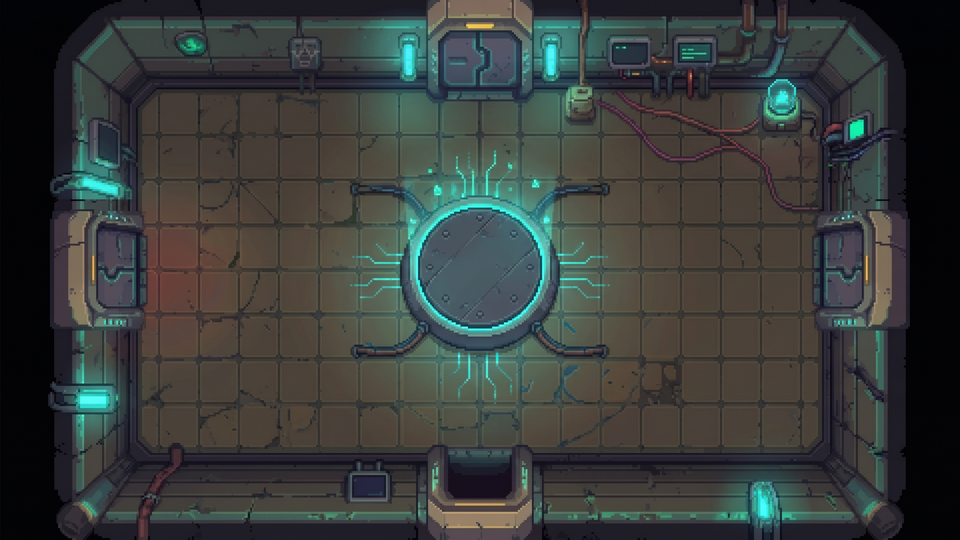
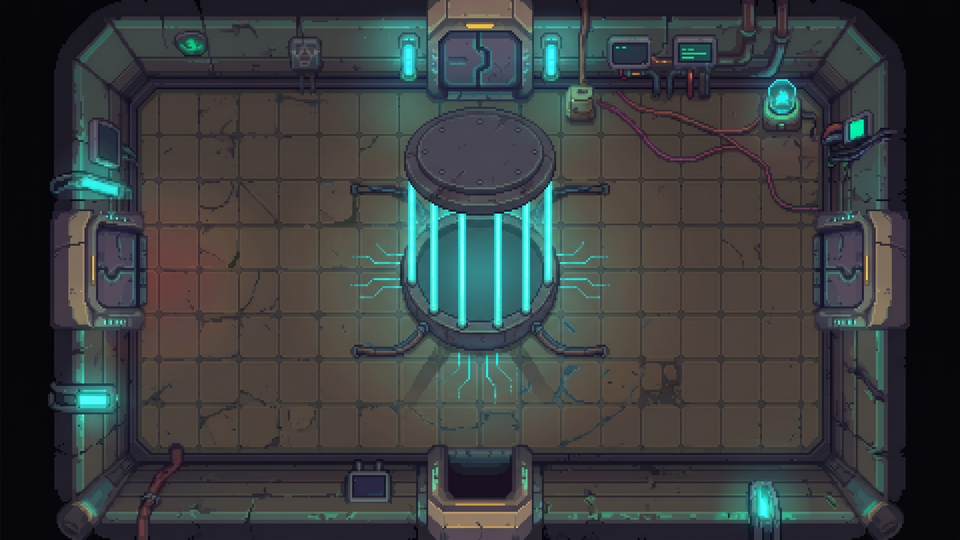
Käfig fest im Raumbild integriert (zu/offen), Heil-Pose im Becken, robustere Heilquellen-Platzierung
- Käfig-Kammer: geschlossener und geöffneter Käfig sind Teil der Raum-Hintergründe (cell_sN / cell_open_sN); Figur wird davor gezeichnet und springt bei der Befreiung heraus
- Heilquelle: Held sitzt beim Heilen im Wasser (hero_pool, springHealing), Glühen & aufsteigende Funken
- Heilquelle ersetzt bei Bedarf ein Riss-Portal samt Kammer; Stresstest über 360 Zufalls-Ebenen
- m10p2 an das Lyra-Tutorial angepasst; Sprite-Queue P3-56…59

Claude-Session: https://claude.ai/code/session_016nKYwn88UYeYNDP8xz8WMg

Changed region(s): [[0.4062, 0.1778, 0.5938, 0.6815]]

diff --git a/src/dungeon/dungeonRenderer.ts b/src/dungeon/dungeonRenderer.ts
@@ -72,7 +72,10 @@ export class DungeonRenderer {
           : visSec === 2
             ? art.dungeonBgS2 ?? art.dungeonBg
             : art.dungeonBg;
-    const specKey = this.scene.currentRoom.special ? `${this.scene.currentRoom.special}_s${Math.max(1, Math.min(4, visSec))}` : '';
+    const cageNow = this.scene.currentRoom.captive;
+    const cellOpen = !!cageNow && (cageNow.freed || (!!this.scene.rescueCine && this.scene.rescueCine.t > 1.0));
+    const specKind = this.scene.currentRoom.special === 'cell' && cellOpen ? 'cell_open' : this.scene.currentRoom.special;
+    const specKey = specKind ? `${specKind}_s${Math.max(1, Math.min(4, visSec))}` : '';
     const specBg = specKey ? art.roomBgs[specKey] : null;
     if (specBg) {
       ctx.drawImage(specBg, 0, 0, VIRTUAL_WIDTH, VIRTUAL_HEIGHT);
@@ -1452,6 +1455,22 @@ export class DungeonRenderer {
     const onDais = this.scene.currentRoom.special === 'cell';
     const x = Math.round(cage.x);
     const y = Math.round(cage.y);
+    if (onDais && art.roomBgs[`cell_s${Math.max(1, Math.min(4, this.scene.floor.visualSector ?? this.scene.currentSector))}`]) {
+      // Käfig ist Teil des Raum-Sprites; hier nur die gefangene Figur im Käfig (bzw. beim Befreien herausspringend)
+      if (spr && !cage.freed) {
+        const hop = cine ? -Math.abs(Math.sin(cine.t * 5)) * Math.min(7, cine.t * 5) : Math.sin(t * 2.4) * 1.0;
+        const out = cine && cine.t > 1.0 ? Math.min(10, (cine.t - 1.0) * 8) : 0;
+        drawGlow(ctx, x, y - 4, 20, def.color, 0.22 + Math.sin(t * 3) * 0.05);
+        ctx.drawImage(spr, x - 9, Math.round(y - 14 + hop + out), 18, 18);
+      }
+      if (!cage.freed) {
+        ctx.font = 'bold 5px Silkscreen, monospace';
+        ctx.textAlign = 'center';
+        ctx.fillStyle = def.color;
+        ctx.fillText(def.name.toUpperCase(), x, y - 36);
+      }
+      return;
+    }
     const cageSpr = art.propCrewCage;
     const barCol = locked ? '#f87171' : '#67e8f9';
     if (!onDais) {
@@ -4248,6 +4267,23 @@ export class DungeonRenderer {
               ? art.heroLeft
               : art.heroDown;
 
+    const poolSpr = art.heroPool;
+    if (poolSpr && this.scene.springHealing > 0) {
+      // Heilquelle: Held sitzt im Wasser (schwebt leicht), Wasserring leuchtet
+      const t = this.scene.time;
+      const px = this.scene.playerX;
+      const py = this.scene.playerY;
+      drawGlow(ctx, px, py + 4, 26, '#86efac', 0.22 + Math.sin(t * 3) * 0.06);
+      ctx.drawImage(poolSpr, Math.round(px - 17), Math.round(py - 22 + Math.sin(t * 2.2) * 1.4), 34, 30);
+      ctx.fillStyle = '#d9f99d';
+      for (let i = 0; i < 4; i++) {
+        const ph = (t * 0.7 + i * 0.25) % 1;
+        ctx.globalAlpha = (1 - ph) * 0.9;
+        ctx.fillRect(Math.round(px - 10 + i * 7 + Math.sin(t * 3 + i) * 2), Math.round(py - 4 - ph * 22), 1.5, 1.5);
+      }
+      ctx.globalAlpha = 1;
+      return;
+    }
     if (hdSpr) {
       ctx.save();
       ctx.translate(this.scene.playerX + lungeX, this.scene.playerY + 10 - bob + lungeY);

diff --git a/src/scenes/DungeonScene.ts b/src/scenes/DungeonScene.ts
@@ -249,6 +249,8 @@ export class DungeonScene {
   /** Gelandete geöffnete Absetzkapsel im Startraum (bleibt als Prop stehen) */
   /** P7b: laufende Befreiungs-Szene (friert das Spiel ein) */
   private springCarry = 0;
+  /** P7b: >0 solange der Held gerade in der Heilquelle sitzt (Pose `hero_pool`) */
+  public springHealing = 0;
   public rescueCine: { crew: CrewId; t: number; beat: number; beatT: number } | null = null;
   public landedPod: { x: number; y: number; roomKey: string } | null = null;
 
@@ -449,6 +451,7 @@ export class DungeonScene {
     }
     this.rescueCine = null;
     this.springCarry = 0;
+    this.springHealing = 0;
     this.floorBossDefeated = false;
     this.invulnTimer = 0.55;
     this.dashCooldown = 0;
@@ -604,6 +607,7 @@ export class DungeonScene {
     this.aimTargetId = null;
     this.roomFade = 0.22;
     this.springCarry = 0;
+    this.springHealing = 0;
     this.tutorialForRoom(room);
 
     const rb = this.bounds; // M12: Türen/Eintritt relativ zu den Raumgrenzen
@@ -1293,6 +1297,7 @@ export class DungeonScene {
 
   /** P7b: Heilquelle (Raum vor dem Boss): heilt allmählich, insgesamt nur einen Teil der max. HP. */
   private updateHealSpring(dt: number): void {
+    this.springHealing = Math.max(0, this.springHealing - dt);
     const sp = this.currentRoom.spring;
     if (!sp || this.isWeeklyTrial) return;
     const stats = this.state.getStats();
@@ -1306,6 +1311,7 @@ export class DungeonScene {
       this.activePrompt = { label: 'Heilquelle: du bist bei voller Gesundheit', x: sp.x, y: sp.y - 34 };
       return;
     }
+    this.springHealing = 0.25;
     this.springCarry += Math.min(budget, stats.maxHp * SPRING_HEAL_RATE * dt);
     const whole = Math.floor(this.springCarry);
     if (whole >= 1) {

diff --git a/src/assets/artLoader.ts b/src/assets/artLoader.ts
@@ -89,6 +89,7 @@ export interface HDArtAssets {
   hubLockTech: HTMLCanvasElement | null;
   npcPip: HTMLCanvasElement | null;
   propCrewCage: HTMLCanvasElement | null;
+  heroPool: HTMLCanvasElement | null;
   /** P7b: Hintergründe der Sonderräume (Käfig-Kammer / Heilquelle), je Sektor S1–S4; fehlt → Standard-Hintergrund */
   roomBgs: Record<string, HTMLImageElement | null>;
   npcPing: HTMLCanvasElement | null;
@@ -351,6 +352,7 @@ const art: HDArtAssets = {
   hubLockTech: null,
   npcPip: null,
   propCrewCage: null,
+  heroPool: null,
   roomBgs: {},
   npcPing: null,
   propWorkbench2: null,
@@ -584,6 +586,7 @@ export const WORLD_OPTIONAL_SPRITES = {
   hubLockTech: 'hub_lock_tech',
   npcPip: 'npc_pip',
   propCrewCage: 'prop_crew_cage',
+  heroPool: 'hero_pool',
   npcPing: 'npc_ping',
   propWorkbench2: 'prop_workbench2',
   npcMidnight: 'npc_midnight',
@@ -652,7 +655,7 @@ export const M12_OPTIONAL_SPRITES = {
 export type M12SpriteKey = keyof typeof M12_OPTIONAL_SPRITES;
 
 /** P7b: Sonderraum-Hintergründe `public/art/rooms/<kind>_s<N>.png` (960×540). */
-export const SPECIAL_ROOM_BGS: string[] = ['cell', 'spring'].flatMap((k) => [1, 2, 3, 4].map((n) => `${k}_s${n}`));
+export const SPECIAL_ROOM_BGS: string[] = ['cell', 'cell_open', 'spring'].flatMap((k) => [1, 2, 3, 4].map((n) => `${k}_s${n}`));
 
 /** Meilenstein 10-C: optionale Boss-Sprites (128×128). Fehlt die Datei → eingefärbter Fallback + Merkmale (bossLooks.ts). */
 export const BOSS_OPTIONAL_SPRITES = {

diff --git a/src/dungeon/specialRooms.ts b/src/dungeon/specialRooms.ts
@@ -54,7 +54,9 @@ function bossNeighbour(floor: DungeonFloor): DungeonRoom | null {
   for (const side of Object.keys(SIDE_DELTA) as DoorSide[]) {
     if (!boss.doors[side]) continue;
     const d = SIDE_DELTA[side];
-    for (const r of floor.rooms.values()) if (r.gx === boss.gx + d.dx && r.gy === boss.gy + d.dy && eligible(r)) out.push(r);
+    for (const r of floor.rooms.values()) {
+      if (r.gx === boss.gx + d.dx && r.gy === boss.gy + d.dy && (eligible(r) || (r.type === 'combat' && !r.isRiftChamber && !r.secretParentKey && !r.special && r.riftPortal))) out.push(r);
+    }
   }
   out.sort((a, b) => b.depth - a.depth || byKey(a, b));
   return out[0] ?? null;
@@ -77,6 +79,11 @@ export function placeSpecialRooms(floor: DungeonFloor, opts: SpecialRoomOpts): {
     const r = bossNeighbour(floor);
     if (r) {
       if (r.extractBeacon) beaconLost = true;
+      // Riss-Portal in diesem Raum entfällt samt Kammer (der Raum wird zur ruhigen Quelle)
+      if (r.riftPortal) {
+        for (const [k, q] of [...floor.rooms.entries()]) if (q.isRiftChamber && q.riftParentKey === r.key) floor.rooms.delete(k);
+        r.riftPortal = null;
+      }
       strip(r);
       r.special = 'spring';
       r.spring = { x: ROOM_CENTER_X, y: ROOM_CENTER_Y, used: 0 };

diff --git a/SPRITE_QUEUE.md b/SPRITE_QUEUE.md
@@ -259,8 +259,10 @@ Wer im Code oder in einem Plan ein neues benötigtes Sprite, ein neues M11-Sheet
 | `P3-53` | [x] | `public/art/sprites/cutscene_story_omega.png` | 16:9 Kino-Panel · `960×540` RGB | `public/art/sprites/cutscene_bg_solaris.png` | 16-Bit-HD-Pixel-Art Sternenfeuerwerk über der jubelnden Promenade von Port Solaris im warmen goldenen & cyanfarbenen Licht, kein UI/Text | ✅ via `art:gen` (`gemini-nano-banana-2.1`, `960×540` RGB, Sichtprüfung ok) |
 | `P3-54` | [x] | `public/art/sprites/npc_mina.png` | Formel B · `96×96` RGBA | `public/art/sprites/npc_kael.png`, `public/art/sprites/npc_lyra.png` | 16-Bit-HD-Pixel-Art junge Schmiede-Gehilfin Mina in Leder-Schürze, Schutzbrille auf der Stirn, kleiner leuchtender Energie-Hammer, warmes Lächeln, 3/4-Top-Down, `#FFFFFF` | ✅ via `art:gen` (`gemini-nano-banana-2.1`, Flood-Fill + `NEAREST` `96×96` RGBA, Sichtprüfung ok) |
 | `P3-55` | [x] | `public/art/sprites/prop_crew_cage.png` | Formel B · `68×66` RGBA | `public/art/sprites/chest_closed.png`, `public/art/sprites/vitrine_t1.png` | Energie-Käfig mit Metallsockel (frontal, leichte Draufsicht), Innenraum transparent (Figur wird dahinter gezeichnet) für die gefangene Crew in `dungeonRenderer.renderCaptiveCage` | ✅ via `art:gen` (`gemini-nano-banana-2.1`, Magenta-Innenraum + Weiß per Flood-Fill → Alpha, `68×66` RGBA, Sichtprüfung ok; Rohbild `art_source/_raw/prop_crew_cage.png`) |
-| `P3-56` | [x] | `public/art/rooms/cell_s1.png … cell_s4.png` | 16:9 · `960×540` RGB (je Sektor) | `public/art/dungeon_bg.png`, `dungeon_bg_s2…s4.png` | Käfig-Kammer: leerer Raum mit rundem Sockel in der Mitte (Türen/Rahmen pixelgleich) für die gefangene Crew | ✅ via `art:gen` (`gemini-nano-banana-2.1`, 2752×1536 → LANCZOS 960×540, Sichtprüfung ok); Roh in `art_source/_raw/rooms/` |
-| `P3-57` | [x] | `public/art/rooms/spring_s1.png … spring_s4.png` | 16:9 · `960×540` RGB (je Sektor) | `public/art/dungeon_bg.png`, `dungeon_bg_s2…s4.png` | Heilquelle vor dem Boss: leerer Raum mit leuchtendem Becken (Rune-Rand) + 2 Laternen in der Mitte | ✅ via `art:gen` (wie P3-56, Sichtprüfung ok) |
+| `P3-56` | [x] | `public/art/rooms/cell_s1.png` | 16:9 · `960×540` RGB (je Sektor `cell_s1…s4`) | `public/art/dungeon_bg.png`, `dungeon_bg_s2…s4.png` | Käfig-Kammer **mit fest eingebautem geschlossenem Käfig** auf rundem Sockel (Crew-Sprite wird davor gezeichnet; Türen/Rahmen pixelgleich) | ✅ via `art:gen` (2 Durchläufe: Sockel → Käfig integrieren, Sichtprüfung ok); `cell_s2…s4` liegen daneben |
+| `P3-57` | [x] | `public/art/rooms/spring_s1.png` | 16:9 · `960×540` RGB (je Sektor `spring_s1…s4`) | `public/art/dungeon_bg.png`, `dungeon_bg_s2…s4.png` | Heilquelle vor dem Boss: leuchtendes Becken mit Rune-Rand + 2 Laternen | ✅ via `art:gen`, Sichtprüfung ok; `spring_s2…s4` liegen daneben |
+| `P3-58` | [x] | `public/art/rooms/cell_open_s1.png` | 16:9 · `960×540` RGB (je Sektor `cell_open_s1…s4`) | `public/art/rooms/cell_s1.png` | dieselbe Käfig-Kammer mit **geöffnetem, leerem Käfig** (Stäbe aus) für nach der Befreiung | ✅ via `art:gen` aus `cell_sN`, Sichtprüfung ok |
+| `P3-59` | [x] | `public/art/sprites/hero_pool.png` | Formel B · `68×60` RGBA | `public/art/sprites/hero_down.png` | Held sitzt entspannt im leuchtenden Heilwasser (nur Kopf/Schultern, flacher Wasserring) — Heil-Pose in der Heilquelle (`dungeonRenderer.renderPlayer`, `springHealing`) | ✅ via `art:gen` (2. Versuch ohne Steinbecken), `white-to-alpha.py`, Sichtprüfung ok |
 
 ---
 
